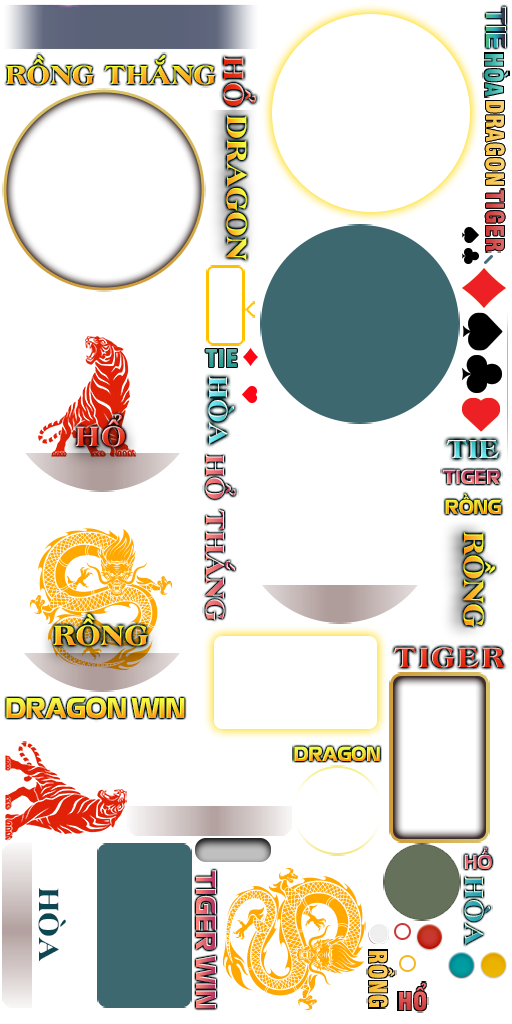
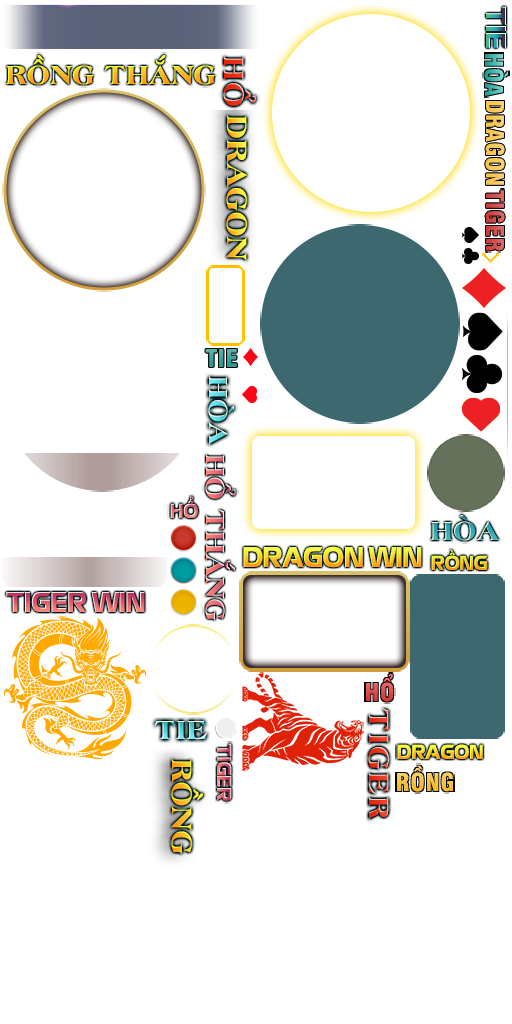
remove unused images for instant RongHo

diff --git a/0_texturepacker/pack-resources.py b/0_texturepacker/pack-resources.py
@@ -8,7 +8,7 @@ if __name__ == '__main__':
     current_dir = os.path.dirname(os.path.realpath(__file__))
     project_dir = os.path.join(current_dir, '..')
 
-    images_dir = '1_instant_client/common'
+    images_dir = '1_instant_client/rong-ho'
 
     # Pack.
     packer_path = os.path.join(
